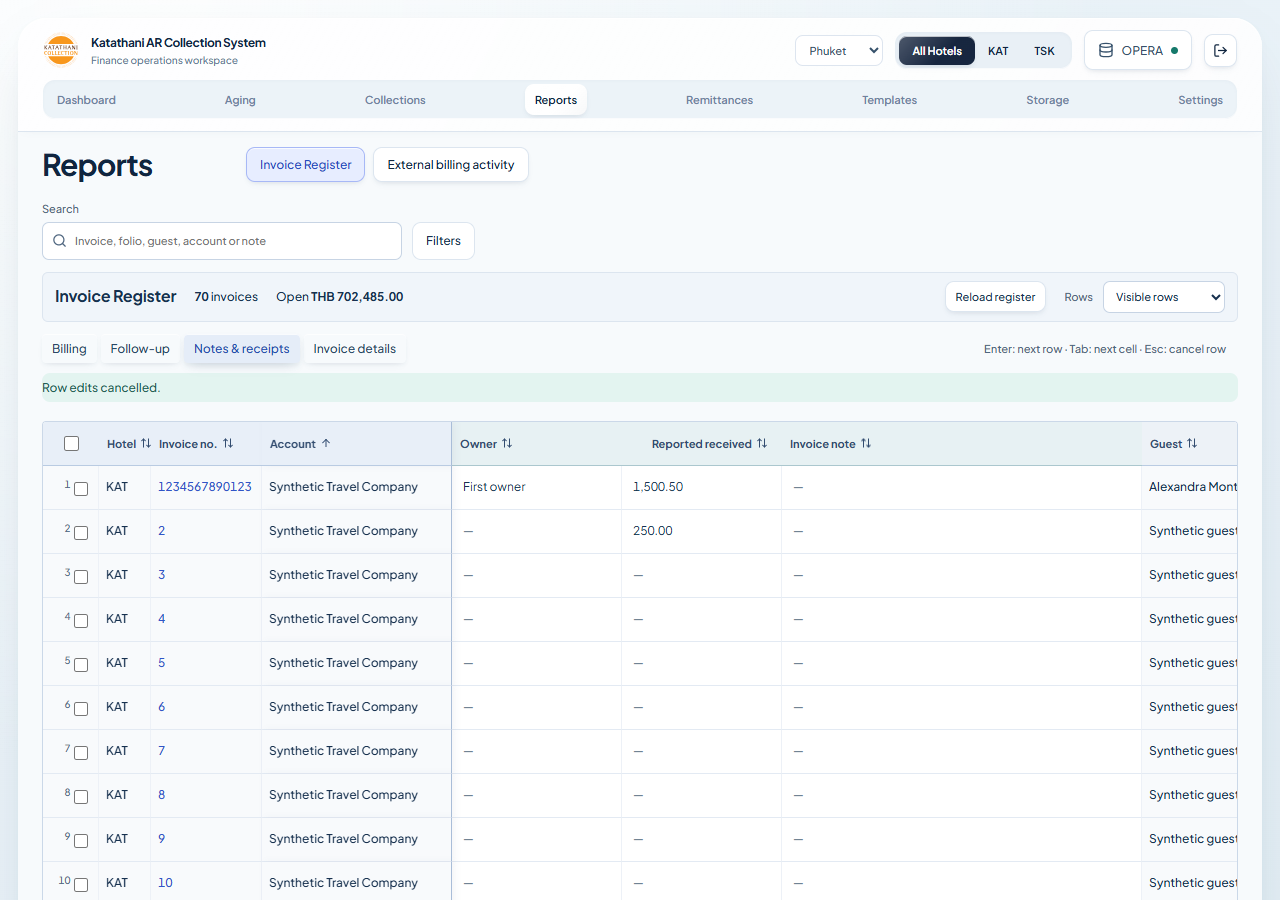
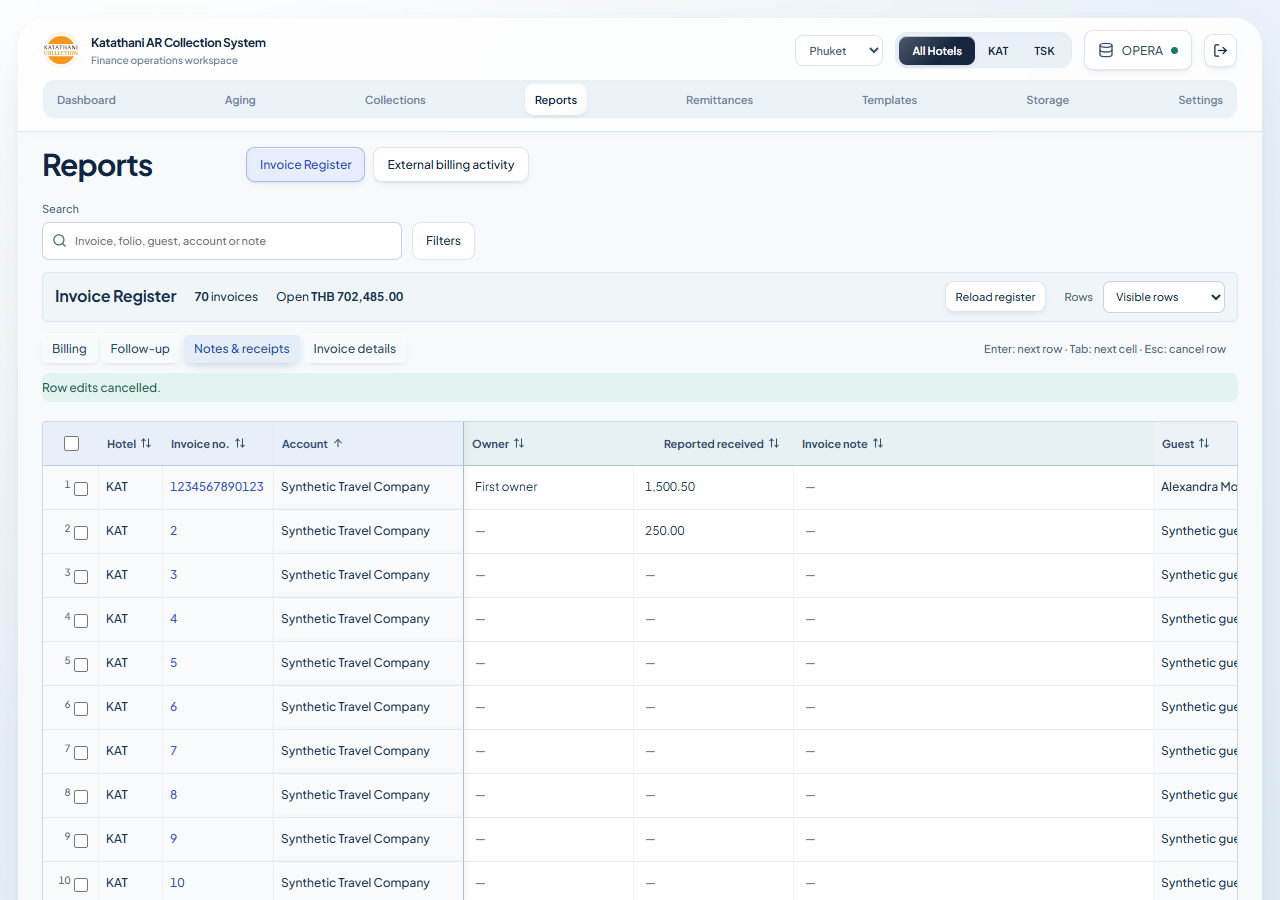
Record cross-platform sheet header verification

diff --git a/docs/PROJECT_STATUS.md b/docs/PROJECT_STATUS.md
@@ -3,8 +3,9 @@
 - Owner chose automatic row saving. Enter/Shift+Enter save and move vertically in the same field; Tab/Shift+Tab navigate editable fields and save at row boundaries; clicking another invoice saves the current row first. Escape cancels the unfinished row, Ctrl/Cmd+S explicitly saves, and Save row remains optional. Unchanged rows do not create writes. Unconfirmed saves retain their exact command and values; failures never advance to another invoice.
 - Manual billing/follow-up/receipt/note fields precede secondary OPERA metadata. Compact search with expandable filters, column-jump controls within the same continuous sheet, numbered 44px rows, pinned identifiers and visible active cells. OPERA-owned values stay read-only. Existing sorting, search, reversible hiding, history and linked workflow notification are preserved.
 - Spreadsheet paste supports rectangular TSV (including quoted multiline cells) into at most 100 existing loaded rows. A destination preview precedes writes. Read-only columns, overflow, invalid dates/amounts and incomplete reminder pairs are rejected. Each row uses existing revision-checked/idempotent APIs; a partial/uncertain batch stops and retries only the same unconfirmed command before continuing. No new invoice, ledger or email is created.
-- Tests: 1,466 unit cases passed, including ten paste-parsing/planning cases. Initial complete smoke suite passed 81 cases; six entry regressions and the additional route-exit guard passed after the final refinement. Deployed runtime `1f4fe1a4060eb4f689efa4bc0b969ea18dd67b53`, Worker `0c1f4c5e-5c06-40ff-8b39-12fb8ec195a7` (PR #90). Health/source and six anonymous boundaries passed; all nine entry/paste/error/route-exit browser cases passed on deployed assets with synthetic APIs. Manual-entry/clipboard/retry and 1,500-row virtualization scenarios verified in-browser; desktop/mobile and paste-preview render inspected in bounded passes. Original image baselines retained; new captures are private temporary synthetic evidence.
+- Tests: 1,466 unit cases passed, including ten paste-parsing/planning cases. Initial complete smoke suite passed 81 cases; six entry regressions and the additional route-exit guard passed after the final refinement. Deployed runtime `1f4fe1a4060eb4f689efa4bc0b969ea18dd67b53`, Worker `0c1f4c5e-5c06-40ff-8b39-12fb8ec195a7` (PR #90). Health/source and six anonymous boundaries passed; all nine entry/paste/error/route-exit browser cases passed on deployed assets with synthetic APIs. Manual-entry/clipboard/retry and 1,500-row virtualization scenarios verified in-browser; desktop/mobile and paste-preview render inspected in bounded passes. Original image baselines retained; new synthetic entry/paste captures are under evidence/register-entry-*.
 - Final uncertainty wording: after an attempted paste the UI no longer claims no changes were saved; it offers an explicit reload of saved rows. Three focused paste scenarios passed locally and on final deployed runtime `51072b957de73cbdccc1101e470d977e77f1988e`, Worker `64cd2bd5-c1d0-4eb7-b8ba-573d079e8fef`; health/source and anonymous boundaries passed again.
+- Cross-platform CI caught a Hotel-header overflow on Linux (80 other browser cases passed). Widened the header and adjusted frozen-column offsets without relaxing assertions. Seven focused local cases and three deployed table cases passed. Final runtime `dc77a8e6979f3b68064baa28704fc75601d2841b`, Worker `003a7efc-1266-4dc0-b9bc-afa198960987`; health/source and anonymous boundaries passed.
 - Scope: existing application/database APIs, no new paid library, external spreadsheet service, schema or permission changes. Customer records were not edited during verification.
 
 ## 26 September 2026 — System audit follow-up fixes
